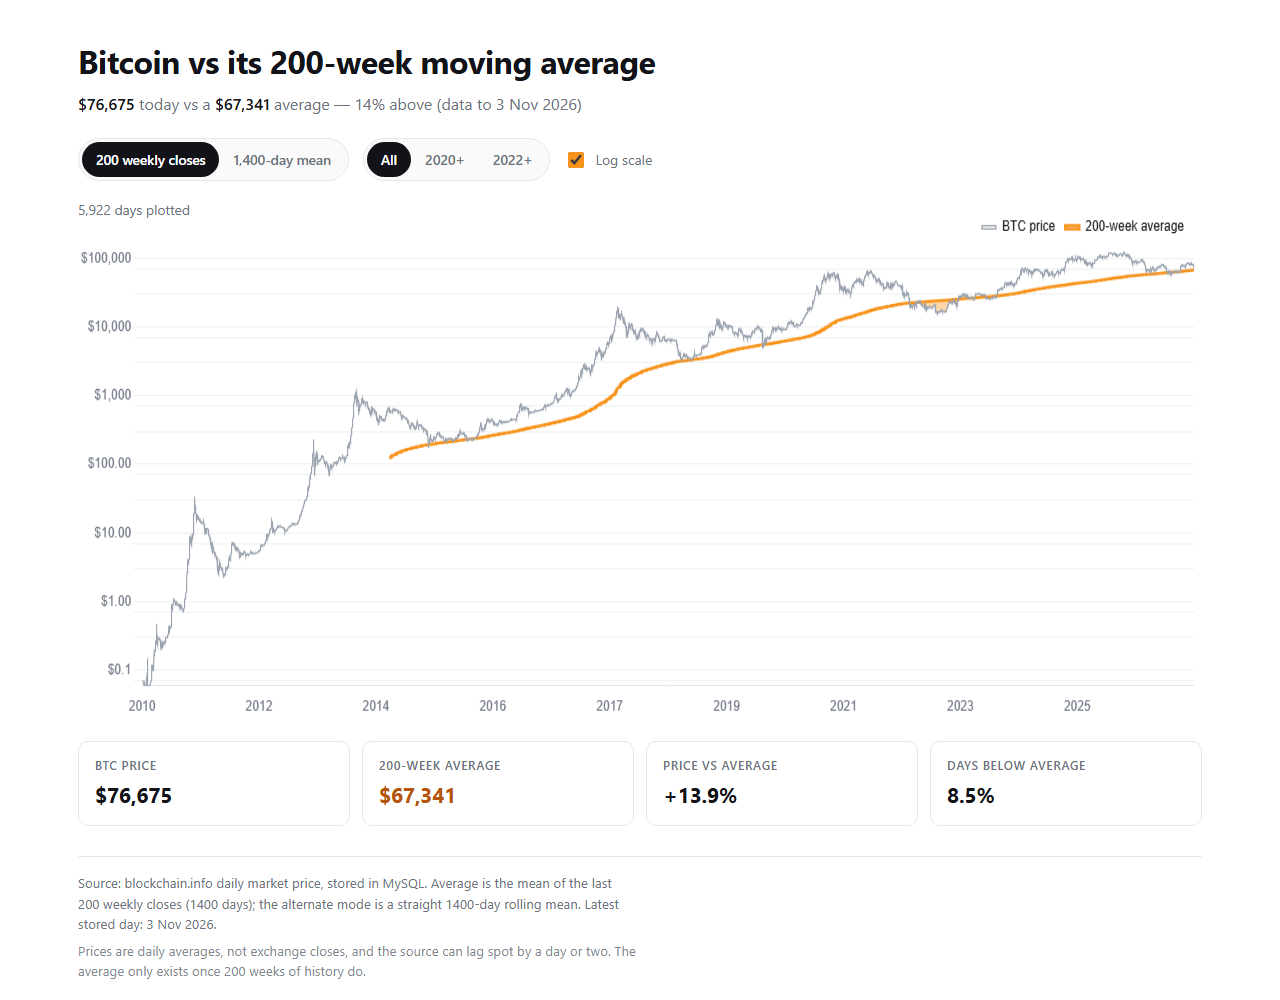
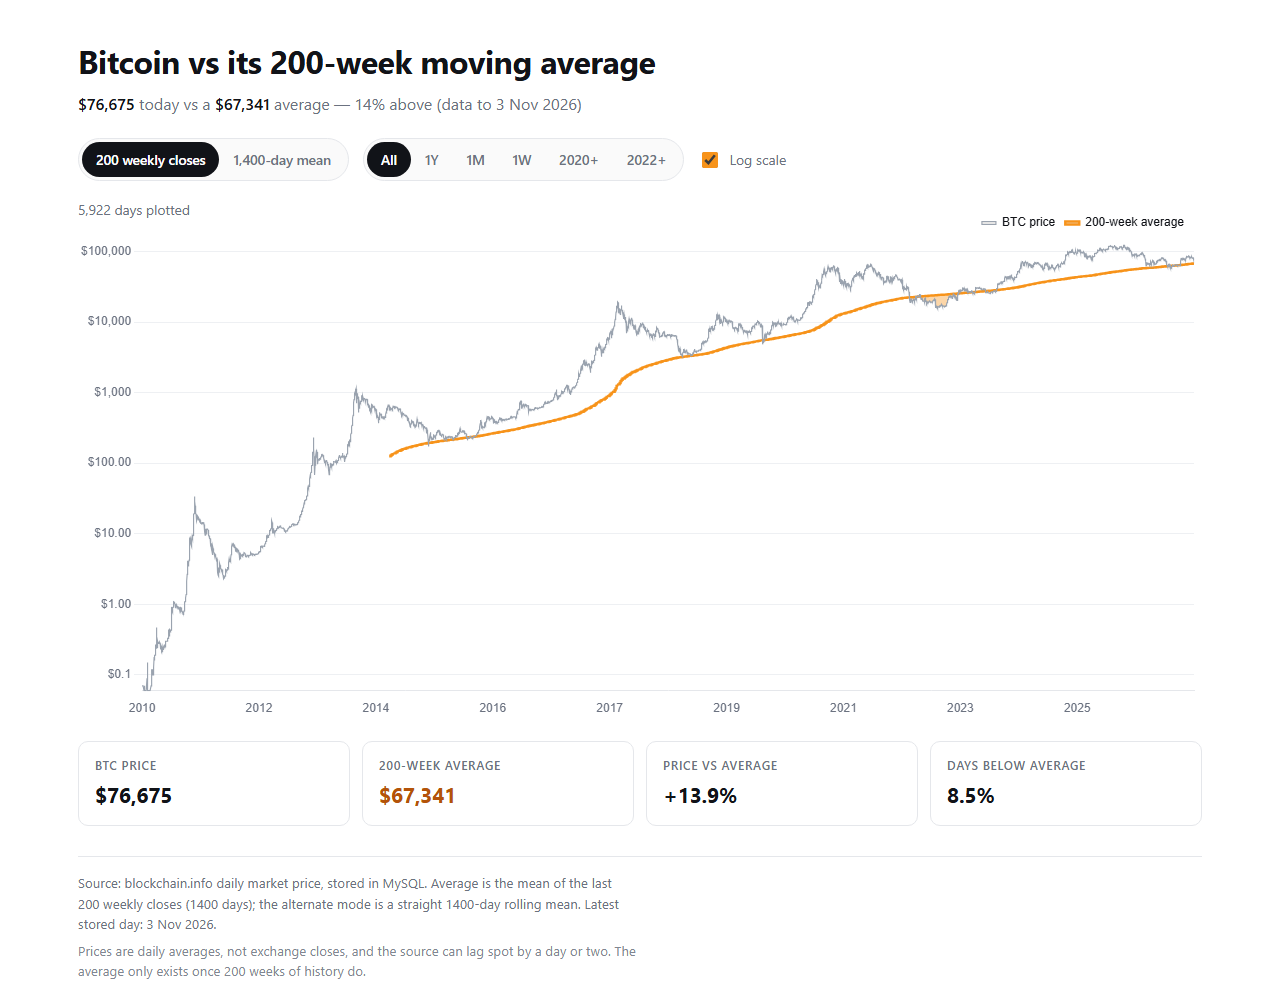
Add week/month/year timeframes
Relative windows are measured back from the last stored day rather than
today, so a lagging source does not leave a gap at the right edge.

Two axis fixes fell out of this: the x-axis labelled years, which repeats
over a short window, so it now labels dates when the span is under 400
days. The y-axis only labelled powers of ten, which leaves almost nothing
labelled when a short window spans less than a decade; it now labels every
tick in that case and caps the count to avoid pile-up.

The view can also be set from the query string (?range=year&mode=daily).

diff --git a/public/js/app.js b/public/js/app.js
@@ -16,9 +16,21 @@
     var PRICE = '#9aa3af';
     var INK = '#111318';
 
-    var state = { mode: 'weekly', since: 0, log: true };
+    var state = { mode: 'weekly', range: 'all', since: 0, log: true };
+
+    // The initial view can come from the query string, so a specific window is
+    // linkable: ?range=year or ?mode=daily.
+    (function readInitialState() {
+        var params = new URLSearchParams(window.location.search);
+        var mode = params.get('mode');
+        var range = params.get('range');
+
+        if (mode === 'daily' || mode === 'weekly') state.mode = mode;
+        if (['week', 'month', 'year', 'all'].indexOf(range) !== -1) state.range = range;
+    })();
     var chart = null;
     var requestId = 0;
+    var lastData = null;
 
     var statusEl = document.getElementById('status');
     var subEl = document.getElementById('sub');
@@ -50,7 +62,15 @@
     // ---------------------------------------------------------------- data
     function buildUrl() {
         var q = ['mode=' + encodeURIComponent(state.mode)];
-        if (state.since > 0) q.push('since=' + state.since);
+
+        // A relative range and an absolute year are the same kind of choice:
+        // whichever was clicked last wins.
+        if (state.range !== 'all') {
+            q.push('range=' + encodeURIComponent(state.range));
+        } else if (state.since > 0) {
+            q.push('since=' + state.since);
+        }
+
         return API + '?' + q.join('&');
     }
 
@@ -86,6 +106,7 @@
     }
 
     function draw(data) {
+        lastData = data;
         var labels = data.labels || [];
         var price = data.price || [];
         var ma = data.ma || [];
@@ -94,6 +115,25 @@
             setStatus('No points in this range.', true);
             return;
         }
+
+        // Span decides both the tick format and how much the tooltip repeats.
+        var firstDate = new Date(labels[0] + 'T00:00:00Z');
+        var lastDate = new Date(labels[labels.length - 1] + 'T00:00:00Z');
+        var spanDays = Math.round((lastDate - firstDate) / 86400000) + 1;
+
+        // On a log axis that spans several decades, only labelling powers of ten
+        // keeps it readable. Over a short window the values are all within one
+        // decade, so there are almost no powers of ten to label — there we label
+        // every tick instead.
+        var lo = Infinity, hi = -Infinity;
+        for (var i = 0; i < price.length; i++) {
+            if (price[i] < lo) lo = price[i];
+            if (price[i] > hi) hi = price[i];
+            if (ma[i] !== null && ma[i] < lo) lo = ma[i];
+            if (ma[i] !== null && ma[i] > hi) hi = ma[i];
+        }
+        var orderSpan = (lo > 0 && hi > 0) ? (hi / lo) : 1;
+        var labelEveryTick = !state.log || orderSpan < 100;
 
         var stats = data.stats || {};
         var ratio = stats.ratio || 1;
@@ -163,9 +203,16 @@
                             maxTicksLimit: 9,
                             callback: function (value, index) {
                                 var iso = labels[index];
-                                // One label per year: showing the year of every
-                                // sampled tick reads as a clean timeline.
-                                return iso ? iso.slice(0, 4) : '';
+                                if (!iso) return '';
+
+                                // Over a wide span, label years. Over a short one
+                                // the year repeats, so label the date instead.
+                                if (spanDays > 400) return iso.slice(0, 4);
+
+                                var d = new Date(iso + 'T00:00:00Z');
+                                var months = ['Jan','Feb','Mar','Apr','May','Jun',
+                                              'Jul','Aug','Sep','Oct','Nov','Dec'];
+                                return d.getUTCDate() + ' ' + months[d.getUTCMonth()];
                             }
                         }
                     },
@@ -175,13 +222,16 @@
                         border: { display: false },
                         ticks: {
                             color: '#6b7280',
+                            // A log axis generates 1..9 x 10^n minor ticks, which
+                            // pile up at the low end of a narrow range. Cap the
+                            // count whenever every tick is labelled.
+                            maxTicksLimit: labelEveryTick ? 6 : 10,
                             callback: function (value) {
-                                // On a log axis only label powers of ten, so the
-                                // years of stacked minor ticks stay readable.
-                                if (state.log) {
-                                    var exp = Math.log10(value);
-                                    if (Math.abs(exp - Math.round(exp)) > 1e-9) return '';
-                                }
+                                if (labelEveryTick) return money(value);
+
+                                // Log axis over many decades: powers of ten only.
+                                var exp = Math.log10(value);
+                                if (Math.abs(exp - Math.round(exp)) > 1e-9) return '';
                                 return money(value);
                             }
                         }
@@ -243,6 +293,15 @@
 
     // ------------------------------------------------------------- controls
     function wire() {
+        // Reflect any state supplied by the query string on the buttons before
+        // the first paint, so the selected option matches what was requested.
+        document.querySelectorAll('[data-mode]').forEach(function (b) {
+            b.classList.toggle('is-active', b.dataset.mode === state.mode);
+        });
+        document.querySelectorAll('[data-range]').forEach(function (b) {
+            b.classList.toggle('is-active', b.dataset.range === state.range);
+        });
+
         document.querySelectorAll('[data-mode]').forEach(function (btn) {
             btn.addEventListener('click', function () {
                 document.querySelectorAll('[data-mode]').forEach(function (b) {
@@ -253,12 +312,29 @@
             });
         });
 
+        // Range buttons: relative windows (1W/1M/1Y), absolute years, and All.
+        // All of them are one mutually-exclusive choice, so activating any one
+        // clears the others.
+        function activateRange(btn) {
+            document.querySelectorAll('[data-range], [data-since]').forEach(function (b) {
+                b.classList.toggle('is-active', b === btn);
+            });
+        }
+
+        document.querySelectorAll('[data-range]').forEach(function (btn) {
+            btn.addEventListener('click', function () {
+                activateRange(btn);
+                state.range = btn.dataset.range || 'all';
+                state.since = 0;
+                load();
+            });
+        });
+
         document.querySelectorAll('[data-since]').forEach(function (btn) {
             btn.addEventListener('click', function () {
-                document.querySelectorAll('[data-since]').forEach(function (b) {
-                    b.classList.toggle('is-active', b === btn);
-                });
+                activateRange(btn);
                 state.since = parseInt(btn.dataset.since, 10) || 0;
+                state.range = 'all';
                 load();
             });
         });
@@ -267,11 +343,12 @@
         if (logToggle) {
             logToggle.addEventListener('change', function () {
                 state.log = logToggle.checked;
-                // Only the axis type changed, so redraw from what we already
-                // have rather than re-fetching the series.
-                if (chart) {
-                    chart.options.scales.y.type = state.log ? 'logarithmic' : 'linear';
-                    chart.update('none');
+                // Tick labelling depends on the axis type, so re-render from the
+                // response we already have rather than only flipping the scale.
+                if (lastData) {
+                    draw(lastData);
+                } else {
+                    load();
                 }
             });
         }

diff --git a/public/api/series.php b/public/api/series.php
@@ -27,6 +27,16 @@ try {
     $mode = ($_GET['mode'] ?? 'weekly') === 'daily' ? 'daily' : 'weekly';
     $weeks = App::maWeeks();
 
+    // Relative windows are measured back from the last stored day, not from
+    // today: the source can lag, and anchoring to "now" would show a window
+    // with a gap at the right-hand edge.
+    $rangeDays = match (strtolower((string) ($_GET['range'] ?? ''))) {
+        'week'  => 7,
+        'month' => 30,
+        'year'  => 365,
+        default => 0,
+    };
+
     $repo = App::prices();
     $daily = $repo->all();
 
@@ -58,7 +68,16 @@ try {
         }
     }
 
-    if ($since > 0) {
+    if ($rangeDays > 0) {
+        $cutoff = (new DateTimeImmutable($last['date']))
+            ->modify('-' . ($rangeDays - 1) . ' days')
+            ->format('Y-m-d');
+
+        $series = array_values(array_filter(
+            $series,
+            static fn ($r): bool => $r['date'] >= $cutoff
+        ));
+    } elseif ($since > 0) {
         $series = array_values(array_filter(
             $series,
             static fn ($r): bool => (int) substr($r['date'], 0, 4) >= $since
@@ -70,6 +89,7 @@ try {
     echo json_encode([
         'mode'       => $mode,
         'weeks'      => $weeks,
+        'range'      => $rangeDays > 0 ? ($_GET['range'] ?? '') : 'all',
         'from'       => $withMa[0]['date'],
         'to'         => $last['date'],
         'labels'     => array_column($series, 'date'),

diff --git a/public/index.php b/public/index.php
@@ -67,7 +67,10 @@ php bin/import.php</pre>
             <button type="button" class="seg-btn" data-mode="daily">1,400-day mean</button>
         </div>
         <div class="seg" role="group" aria-label="Time range">
-            <button type="button" class="seg-btn is-active" data-since="0">All</button>
+            <button type="button" class="seg-btn is-active" data-range="all">All</button>
+            <button type="button" class="seg-btn" data-range="year">1Y</button>
+            <button type="button" class="seg-btn" data-range="month">1M</button>
+            <button type="button" class="seg-btn" data-range="week">1W</button>
             <button type="button" class="seg-btn" data-since="2020">2020+</button>
             <button type="button" class="seg-btn" data-since="2022">2022+</button>
         </div>

diff --git a/README.md b/README.md
@@ -12,8 +12,9 @@ no frameworks and no build step.
 - Computes the 200-week average on request (`/api/series.php`)
 - Renders price and average together, shading the stretches where price traded
   **below** the average
-- Lets you switch between the two common definitions of the average, zoom the
-  time range, and toggle log/linear scaling
+- Lets you switch between the two common definitions of the average, pick a
+  timeframe (1W / 1M / 1Y / all, or from a given year), and toggle log/linear
+  scaling
 
 ## Requirements
 
@@ -45,6 +46,9 @@ php -S localhost:8000 -t public
 ```
 
 Then open <http://localhost:8000>.
+
+The view is also linkable: `?range=year` or `?mode=daily` open straight into
+that selection.
 
 If you use Apache or nginx instead, point the document root at `public/`. The
 only PHP files served directly are `public/index.php` and
@@ -118,10 +122,15 @@ so this is visible rather than assumed.
 
 `GET /api/series.php`
 
-| Parameter | Values            | Default  | Meaning                          |
-|-----------|-------------------|----------|----------------------------------|
-| `mode`    | `weekly`, `daily` | `weekly` | average definition               |
-| `since`   | year, e.g. `2020` | all      | trim the returned window         |
+| Parameter | Values                          | Default  | Meaning                          |
+|-----------|---------------------------------|----------|----------------------------------|
+| `mode`    | `weekly`, `daily`               | `weekly` | average definition               |
+| `range`   | `week`, `month`, `year`         | all      | last 7 / 30 / 365 days           |
+| `since`   | year, e.g. `2020`               | all      | trim from that calendar year     |
+
+`range` is measured back from the **last stored day**, not from today. The
+source can lag, and anchoring to "now" would leave a gap at the right edge of
+the chart. If both `range` and `since` are supplied, `range` wins.
 
 Response:
 
